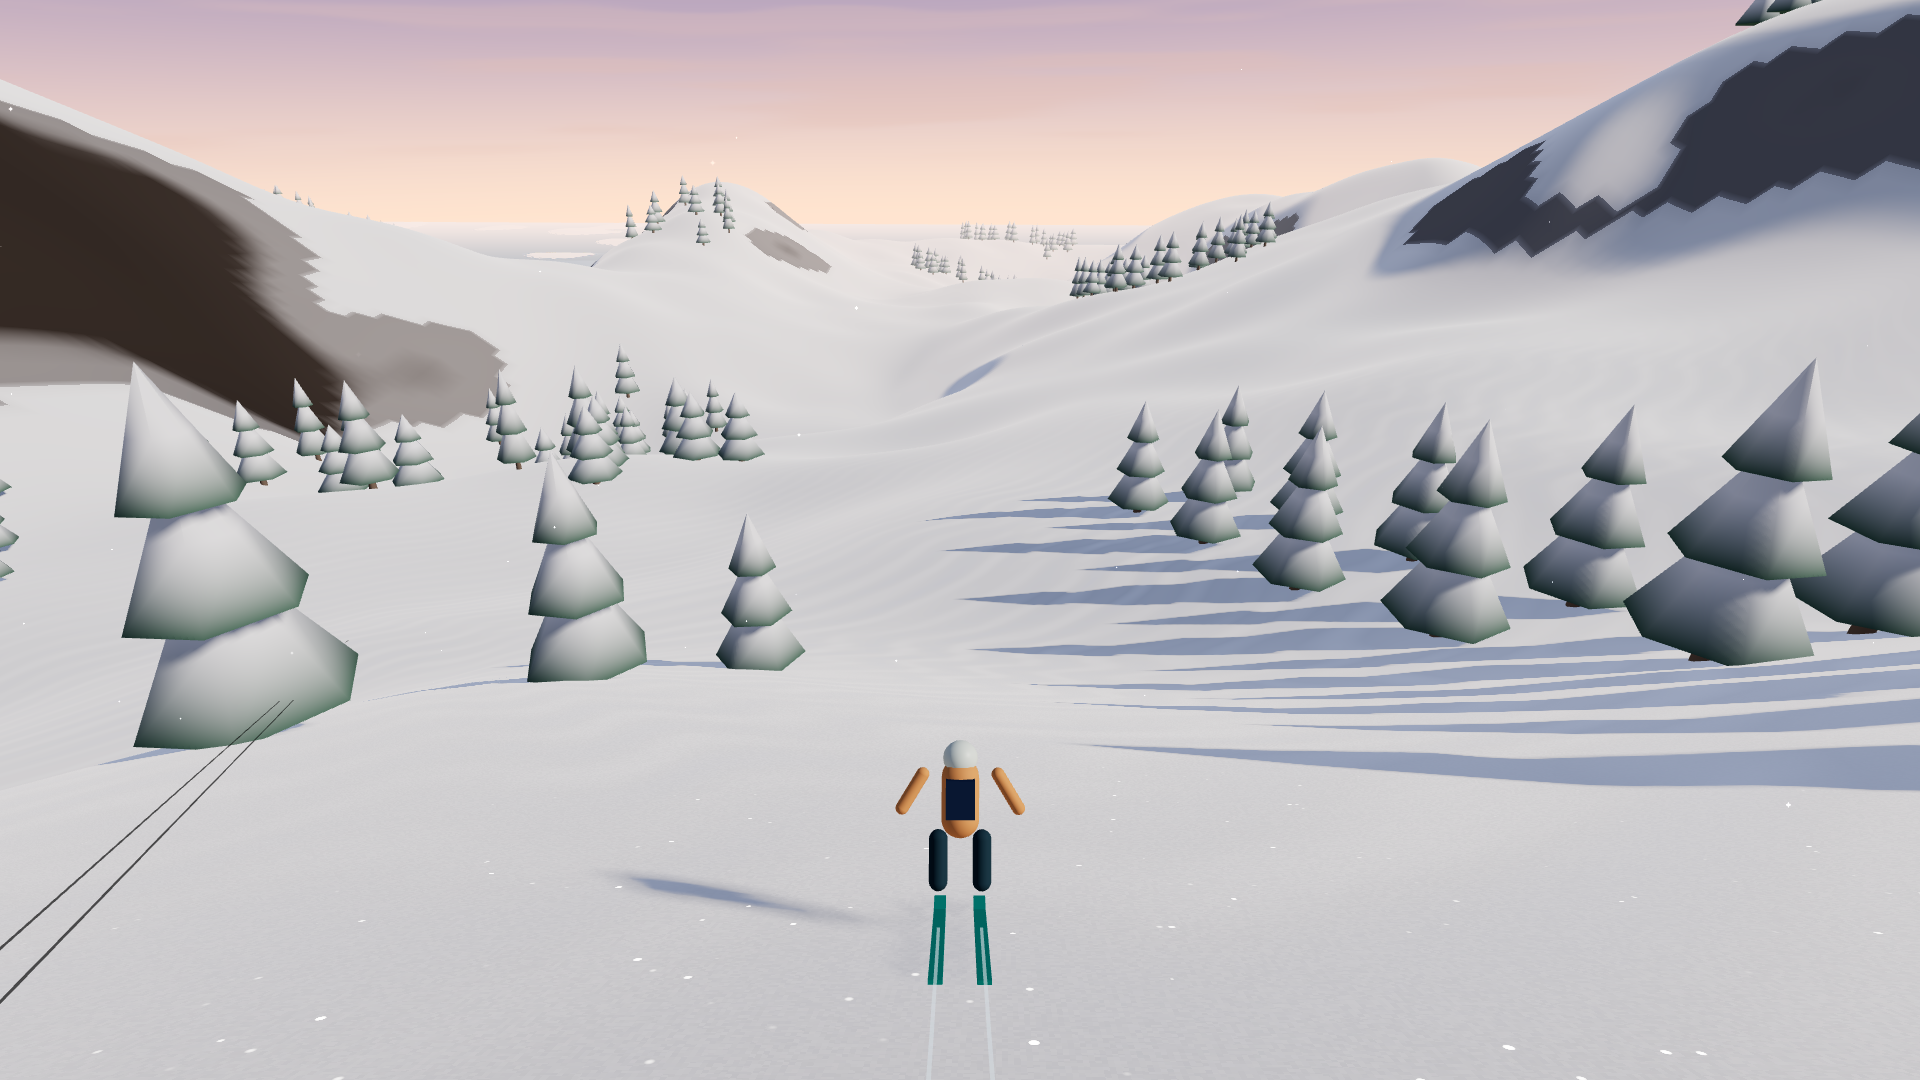
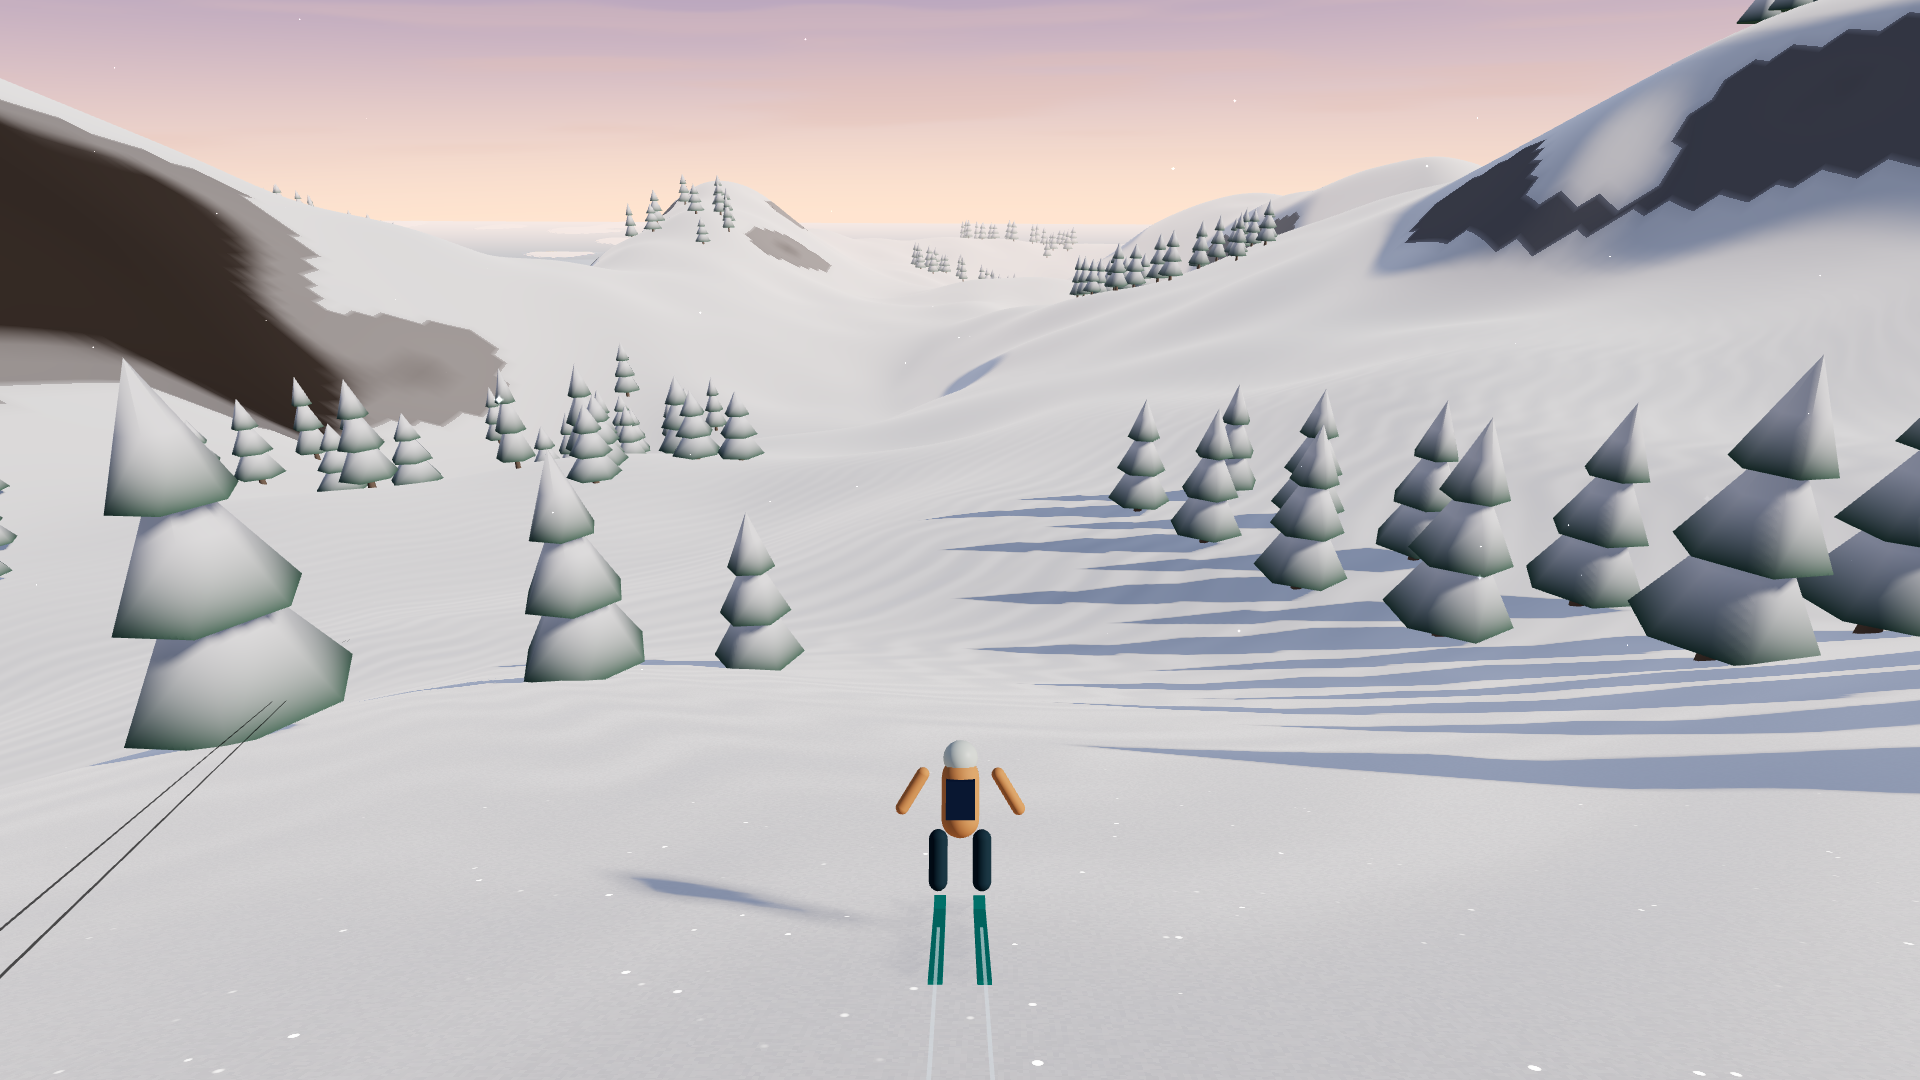
refactor(snow): gate sastrugi contour lines by shadow factor and uncouple from albedo

diff --git a/src/world/SnowMaterial.ts b/src/world/SnowMaterial.ts
@@ -194,11 +194,6 @@ export function createSnowMaterial(options: SnowMaterialOptions = {}): THREE.Mes
 
       float sastrugiVal = rawSastrugi * topoStrength * sastrugiFade;
 
-      // Subtle albedo tint: soft cool shadow in troughs, warm ivory on crests (max ±3.2%)
-      vec3 troughColor = uShadowColor * (-0.038);
-      vec3 crestColor = vec3(0.032);
-      vec3 sastrugiAlbedo = mix(troughColor, crestColor, clamp(sastrugiVal * 1.5 + 0.5, 0.0, 1.0));
-
       // 2. High-frequency granular snow powder texture (crystalline powder grains)
       float grainHash = fract(sin(dot(floor(vWorldPosition * 24.0), vec3(12.9898, 78.233, 45.164))) * 43758.5453);
       float powderGrain = (grainHash - 0.5) * 0.045 * nearFade;
@@ -209,7 +204,7 @@ export function createSnowMaterial(options: SnowMaterialOptions = {}): THREE.Mes
       vec3 daySnow = vec3(0.996, 0.982, 0.970);
       vec3 nightSnow = vec3(0.94, 0.965, 0.995);
       vec3 pastelSnow = mix(daySnow, nightSnow, uNightFactor);
-      diffuseColor.rgb = mix(diffuseColor.rgb, pastelSnow + vec3(powderGrain) + sastrugiAlbedo, isSnow * 0.75);
+      diffuseColor.rgb = mix(diffuseColor.rgb, pastelSnow + vec3(powderGrain), isSnow * 0.75);
       `
     );
 
@@ -225,12 +220,27 @@ export function createSnowMaterial(options: SnowMaterialOptions = {}): THREE.Mes
         float directDiffuseSum = reflectedLight.directDiffuse.r + reflectedLight.directDiffuse.g + reflectedLight.directDiffuse.b;
         float shadowFactor = smoothstep(0.06, 0.20, directDiffuseSum);
 
-        // Sculptural 3D wind-drift lighting: gentle, varied sculptural sastrugi relief
-        float lightMod = sastrugiVal * mix(0.40, 0.30, uNightFactor);
+        // Sculptural 3D wind-drift lighting: organic sastrugi relief & shadow gating
+        // In lit areas: raking sunlight creates sharp micro-relief, warm sunlit crests, and cool self-shadowed troughs
+        // In cast shadows: omnidirectional sky ambient flattens ripples, making contour lines significantly less visible
+        float lightMod = sastrugiVal * mix(0.42, 0.32, uNightFactor);
+
+        // 1. Direct light sculptural relief & chromatic tint (strictly active in lit areas)
         reflectedLight.directDiffuse *= (1.0 + lightMod * 0.85);
+
+        vec3 crestColor = uSunColor * 0.032;
+        vec3 troughColor = uShadowColor * (-0.038);
+        vec3 sastrugiTint = mix(troughColor, crestColor, clamp(sastrugiVal * 1.5 + 0.5, 0.0, 1.0));
+        reflectedLight.directDiffuse += sastrugiTint * shadowFactor;
+
+        // 2. Indirect diffuse / ambient lighting:
+        // In lit areas: troughs catch cool sky-fill shadows
+        // In cast shadows: subtle ambient form hint (~8% scale) so contour lines remain realistically faint
         if (lightMod < 0.0) {
-          reflectedLight.indirectDiffuse += (-lightMod) * 0.40 * uShadowColor;
+          reflectedLight.indirectDiffuse += (-lightMod) * 0.35 * uShadowColor * shadowFactor;
         }
+        float shadowAO = sastrugiVal * 0.08 * (1.0 - shadowFactor * 0.75);
+        reflectedLight.indirectDiffuse *= (1.0 + shadowAO);
 
         // Granular powder micro-contrast: fine crystalline relief up close (< 75m)
         reflectedLight.directDiffuse += powderGrain * 4.2 * reflectedLight.directDiffuse * shadowFactor;
